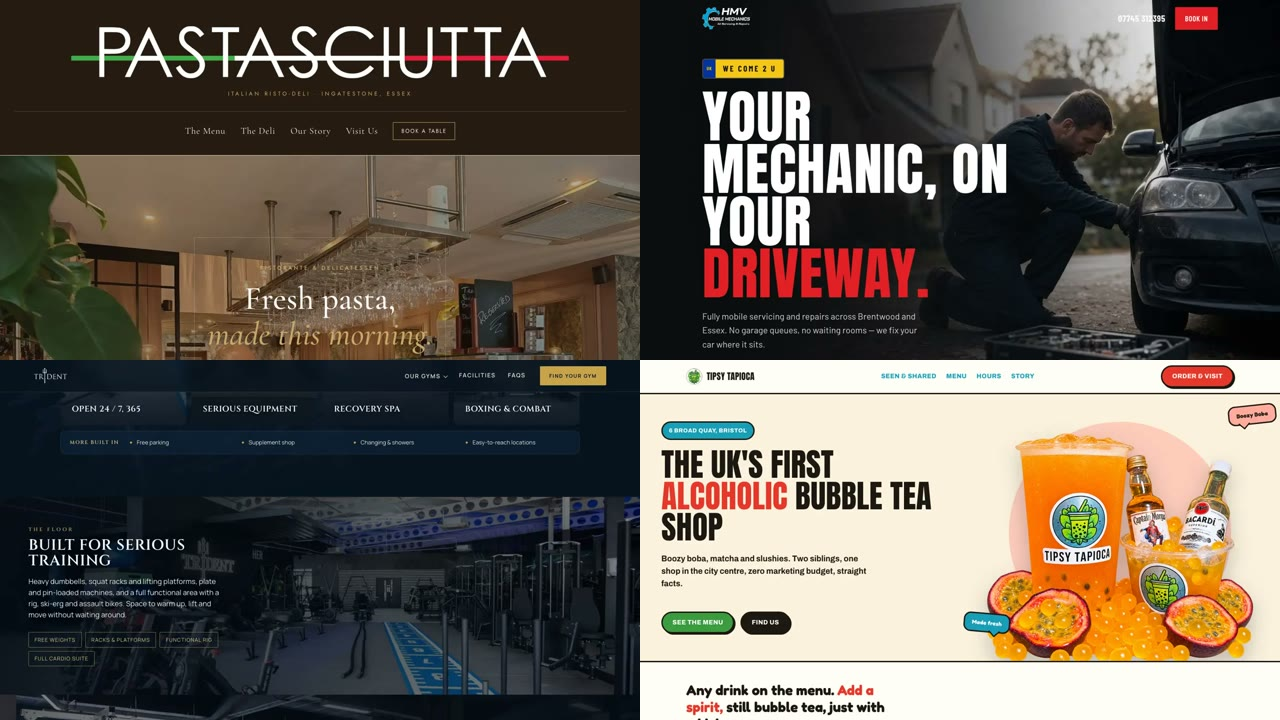
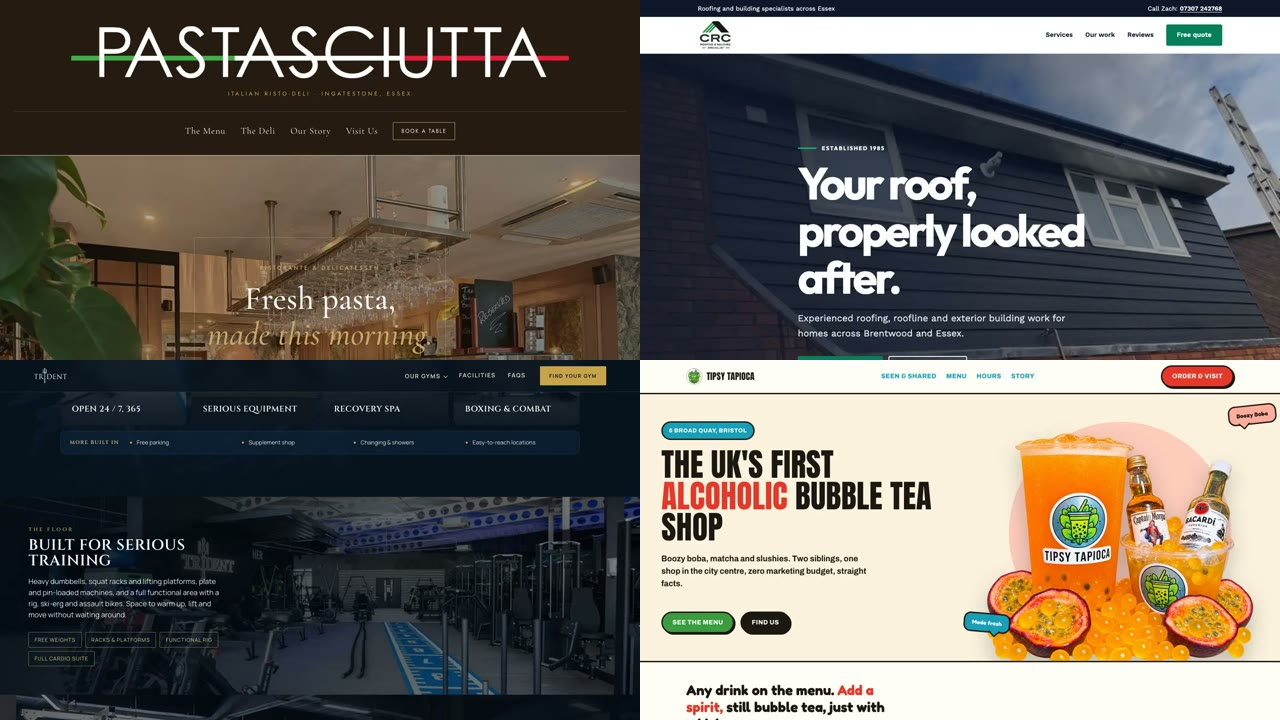
Swap in CRC Roofing

Changed region(s): [[0.5, 0.0, 1.0, 0.5194]]

diff --git a/README.md b/README.md
@@ -12,9 +12,9 @@
       The Ingatestone risto-deli: pasta, wine and a room you can almost smell from the homepage.
     </td>
     <td width="50%" valign="top">
-      <img src="assets/hmv.jpg" alt="HMV Mobile Mechanics homepage">
-      <b>HMV Mobile Mechanics</b> · Mobile mechanic<br>
-      Bold and direct in the business's own red and cyan, built to bring in bookings.
+      <img src="assets/crc.jpg" alt="CRC Roofing homepage">
+      <b>CRC Roofing</b> · Roofline<br>
+      A straight-talking Essex roofline site: fascia, soffits and cladding, easy to call from the phone.
     </td>
   </tr>
   <tr>
@@ -43,7 +43,7 @@
   </tr>
 </table>
 
-The other 18 cover a tree surgeon, a cleaner, a personal trainer, a property firm, a lash studio, a roofer, a plasterer, a cake maker, a builder, a butcher, a bakery, a photographer, a nail salon and several restaurants and bars.
+The other 18 cover a tree surgeon, a cleaner, a personal trainer, a property firm, a mobile mechanic, a lash studio, a plasterer, a cake maker, a builder, a butcher, a bakery, a photographer, a nail salon and several restaurants and bars.
 
 ## How each one is made
 
